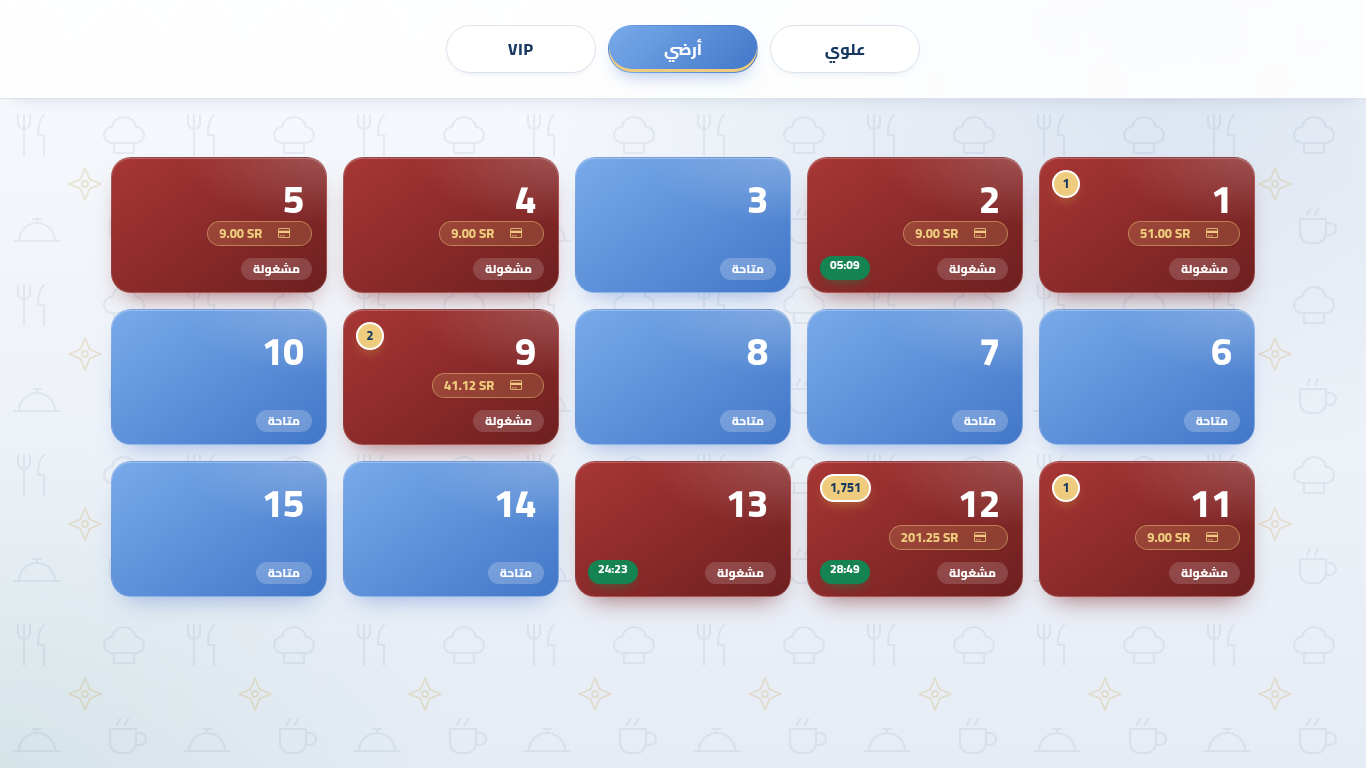
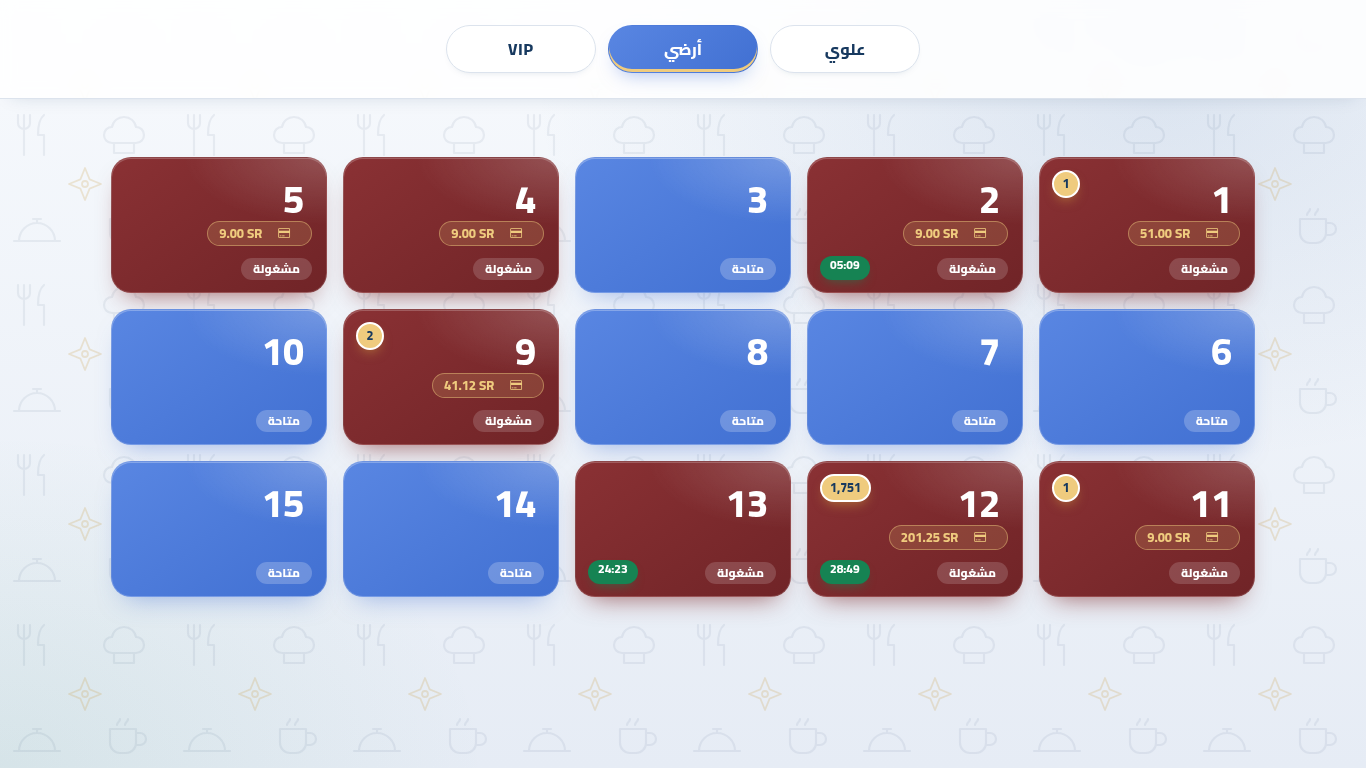
POS tables screen: the previous system's floor colours
From Khaled's photographs of the old till (2026-10-05):
- أرضي violet, علوي royal blue, VIP turquoise, occupied maroon; each a
  very short gradient centred on the photographed hue.
- Every table named «سفري …» is pink on whatever floor it sits — on the
  VIP floor they share the room with الكبري / الصغري / 200 in turquoise.
  FloorScreen.hosnyTableKind() marks those cards data-hh-kind="safari"
  and the card sets its own colour tokens, overriding the floor's.
- Named tables (and the VIP / takeaway floors) set the label a size
  down so «سفري١٢» stays clear of the amount row.

Claude-Session: https://claude.ai/code/session_01Lnz3E3QEWwCq9W3i1o8rQR

diff --git a/addons/hosny_pos_home/static/src/css/floor_screen.css b/addons/hosny_pos_home/static/src/css/floor_screen.css
@@ -38,10 +38,13 @@ body:has(.pos),
 }
 
 /* ── a colour per floor ──
-   The floor colours from hosny_pos_skin §26 (أرضي purple, علوي blue, سفري
-   pink, VIP turquoise; any other name a muted blue), each as a short
-   diagonal gradient around that hue like the home screen's tiles, and
-   one maroon for an occupied table on every floor. The tone is stamped
+   The colours of the previous system's tables, from Khaled's photographs
+   of 2026-10-05: أرضي violet, علوي royal blue, VIP turquoise, and every
+   table named «سفري …» pink on whatever floor it sits (on VIP they share
+   the room with الكبري / الصغري / 200 in turquoise); any other floor a
+   muted blue. Each is a very short gradient centred on the photographed
+   hue, so the card reads as that colour, and one maroon marks an
+   occupied table on every floor. The tone is stamped
    on `.floor-map` by pos_entry_selector; the tokens are set on the
    whole screen (through :has) so the active floor pill can wear its
    floor's colour too, and on the map itself as a fallback. */
@@ -51,24 +54,29 @@ body:has(.pos),
 }
 :is(#hs,.pos) .floor-screen:has(.floor-map[data-pos-floor-tone="ground"]),
 :is(#hs,.pos) .floor-map[data-pos-floor-tone="ground"] {
-    --hf-t-a: #B95AE0; --hf-t-b: #8A22BA; --hf-t-glow: rgba(150,40,200,.55);
+    --hf-t-a: #AE45DA; --hf-t-b: #9A2BC6; --hf-t-glow: rgba(150,40,200,.5);
 }
 :is(#hs,.pos) .floor-screen:has(.floor-map[data-pos-floor-tone="upper"]),
 :is(#hs,.pos) .floor-map[data-pos-floor-tone="upper"] {
-    --hf-t-a: #78AAEA; --hf-t-b: #4277C8; --hf-t-glow: rgba(66,119,200,.55);
+    --hf-t-a: #5986E2; --hf-t-b: #4170D2; --hf-t-glow: rgba(65,112,210,.5);
 }
 :is(#hs,.pos) .floor-screen:has(.floor-map[data-pos-floor-tone="takeaway"]),
 :is(#hs,.pos) .floor-map[data-pos-floor-tone="takeaway"] {
-    --hf-t-a: #F25A90; --hf-t-b: #C91C5B; --hf-t-glow: rgba(220,40,110,.55);
+    --hf-t-a: #EE447B; --hf-t-b: #DD2765; --hf-t-glow: rgba(221,39,101,.5);
 }
 :is(#hs,.pos) .floor-screen:has(.floor-map[data-pos-floor-tone="vip"]),
 :is(#hs,.pos) .floor-map[data-pos-floor-tone="vip"] {
-    --hf-t-a: #52C7F0; --hf-t-b: #1493C8; --hf-t-glow: rgba(20,150,200,.55);
+    --hf-t-a: #3BBEE8; --hf-t-b: #1FA6D6; --hf-t-glow: rgba(31,166,214,.5);
+}
+/* «سفري …» tables: pink on any floor (set on the card itself, so it beats
+   the floor tokens it would otherwise inherit) */
+:is(#hs,.pos) .floor-map .table.custom-floor-table[data-hh-kind="safari"] {
+    --hf-t-a: #EE447B; --hf-t-b: #DD2765; --hf-t-glow: rgba(221,39,101,.5);
 }
 body:has(.pos),
 .pos {
-    --hf-busy-a: #A83636;
-    --hf-busy-b: #6E1F1F;
+    --hf-busy-a: #8A3134;
+    --hf-busy-b: #702427;
 }
 
 /* ── the room ── */
@@ -139,6 +147,14 @@ body:has(.pos),
     font-size: 38px !important;
     font-weight: 800 !important;
     text-shadow: none !important;
+}
+
+/* named tables (سفري ٣، الكبري…) are wider than a number: a size down so
+   the name's descenders stay clear of the amount row */
+:is(#hs,.pos) .floor-map .table.custom-floor-table[data-hh-kind="safari"] .custom-floor-table-number,
+:is(#hs,.pos) .floor-map[data-pos-floor-tone="vip"] .table.custom-floor-table .custom-floor-table-number,
+:is(#hs,.pos) .floor-map[data-pos-floor-tone="takeaway"] .table.custom-floor-table .custom-floor-table-number {
+    font-size: 30px !important;
 }
 
 /* the card's own `.table` class lets Bootstrap's table-cell background

diff --git a/addons/hosny_pos_home/static/src/js/home_screen.js b/addons/hosny_pos_home/static/src/js/home_screen.js
@@ -18,6 +18,7 @@ import { usePos } from "@point_of_sale/app/hooks/pos_hook";
 import { PosStore } from "@point_of_sale/app/services/pos_store";
 import { LoginScreen } from "@point_of_sale/app/screens/login_screen/login_screen";
 import { Navbar } from "@point_of_sale/app/components/navbar/navbar";
+import { FloorScreen } from "@pos_restaurant/app/screens/floor_screen/floor_screen";
 import { handleSaleDetails } from "@point_of_sale/app/components/navbar/sale_details_button/sale_details_button";
 import { dineInFloors } from "@pos_entry_selector/js/entry_selector";
 
@@ -273,5 +274,18 @@ patch(LoginScreen.prototype, {
 patch(Navbar.prototype, {
     get hosnyShowHomeButton() {
         return this.pos.hosnyHomeEnabled() && this.pos.router.state.current !== HOME;
+    },
+});
+
+/**
+ * طاولات «سفري …» وردية في أي دور (في دور VIP تجاورها الكبري والصغري و200
+ * بالتركوازي، كما في صور النظام السابق). انظر css/floor_screen.css.
+ */
+patch(FloorScreen.prototype, {
+    hosnyTableKind(table) {
+        const label = String(
+            table?.getName?.() || table?.table_number || table?.name || ""
+        ).trim();
+        return label.startsWith("سفري") ? "safari" : "";
     },
 });
